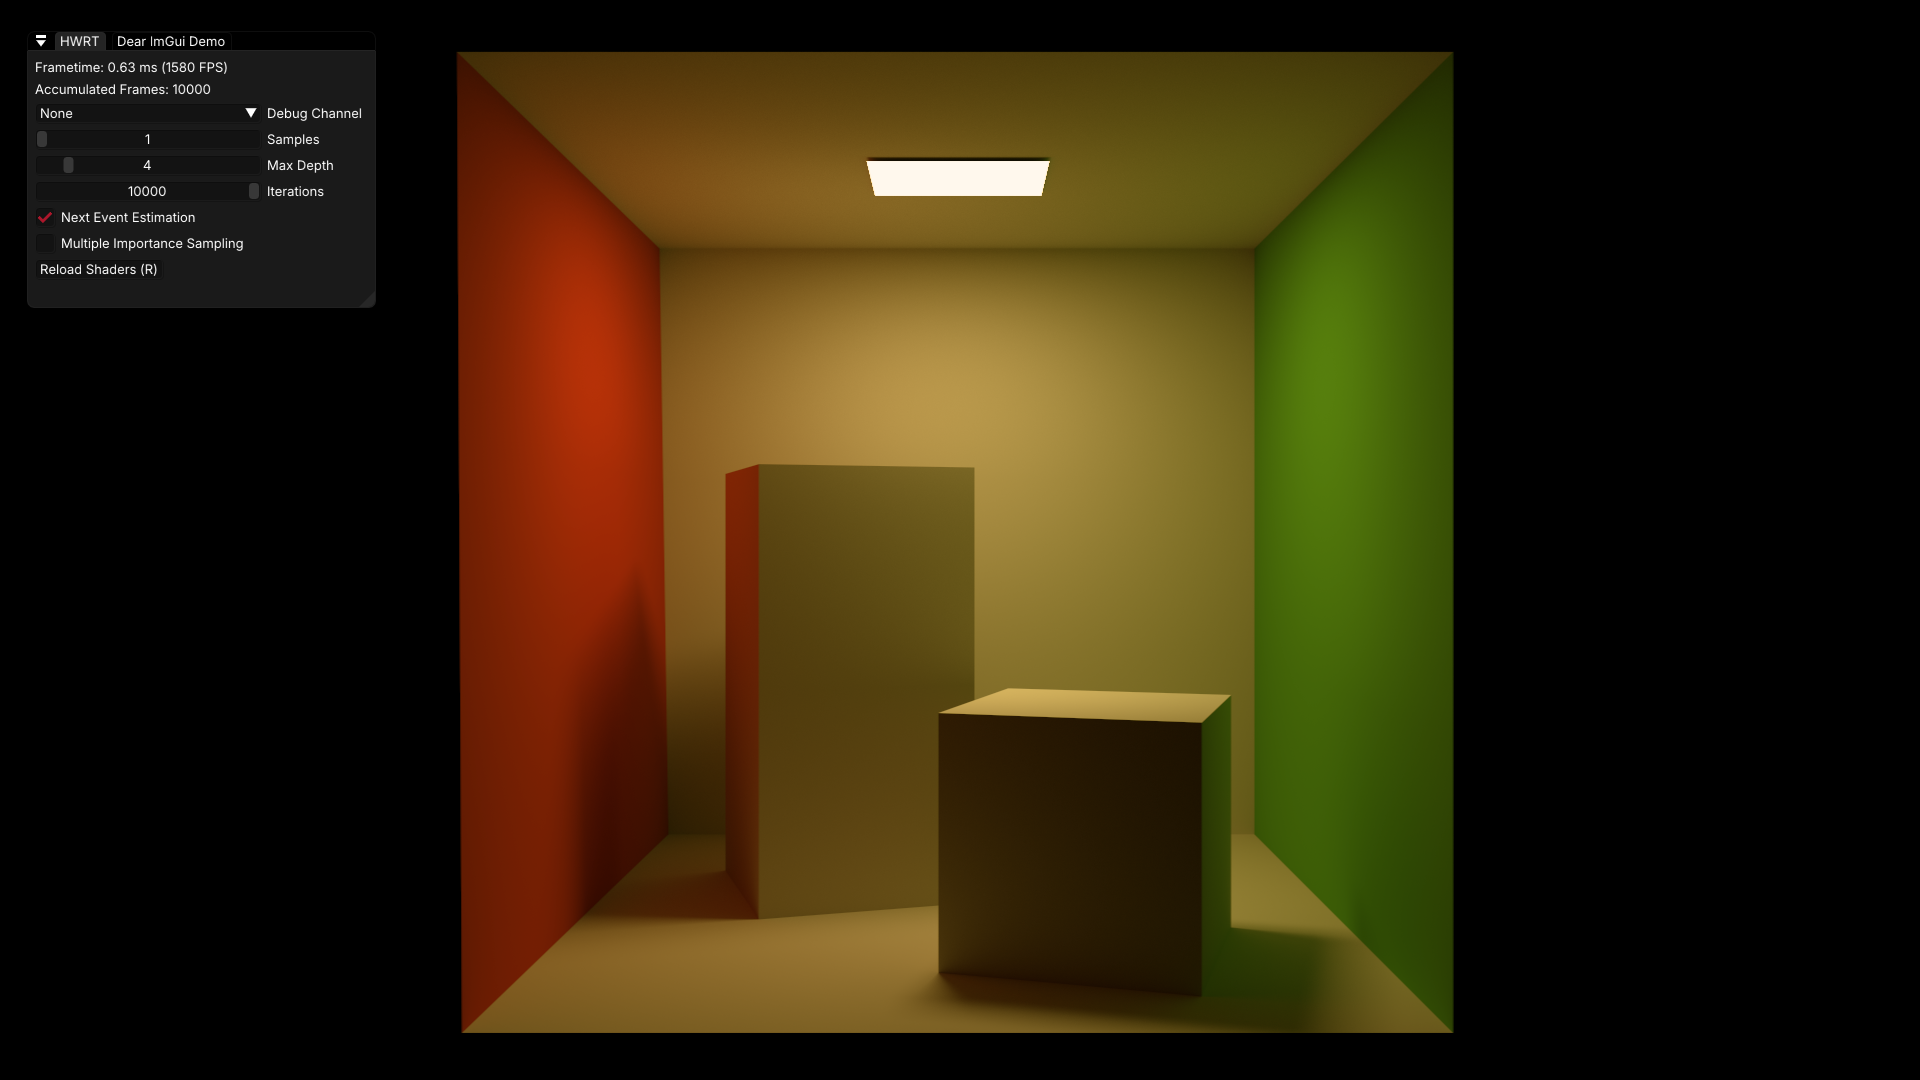
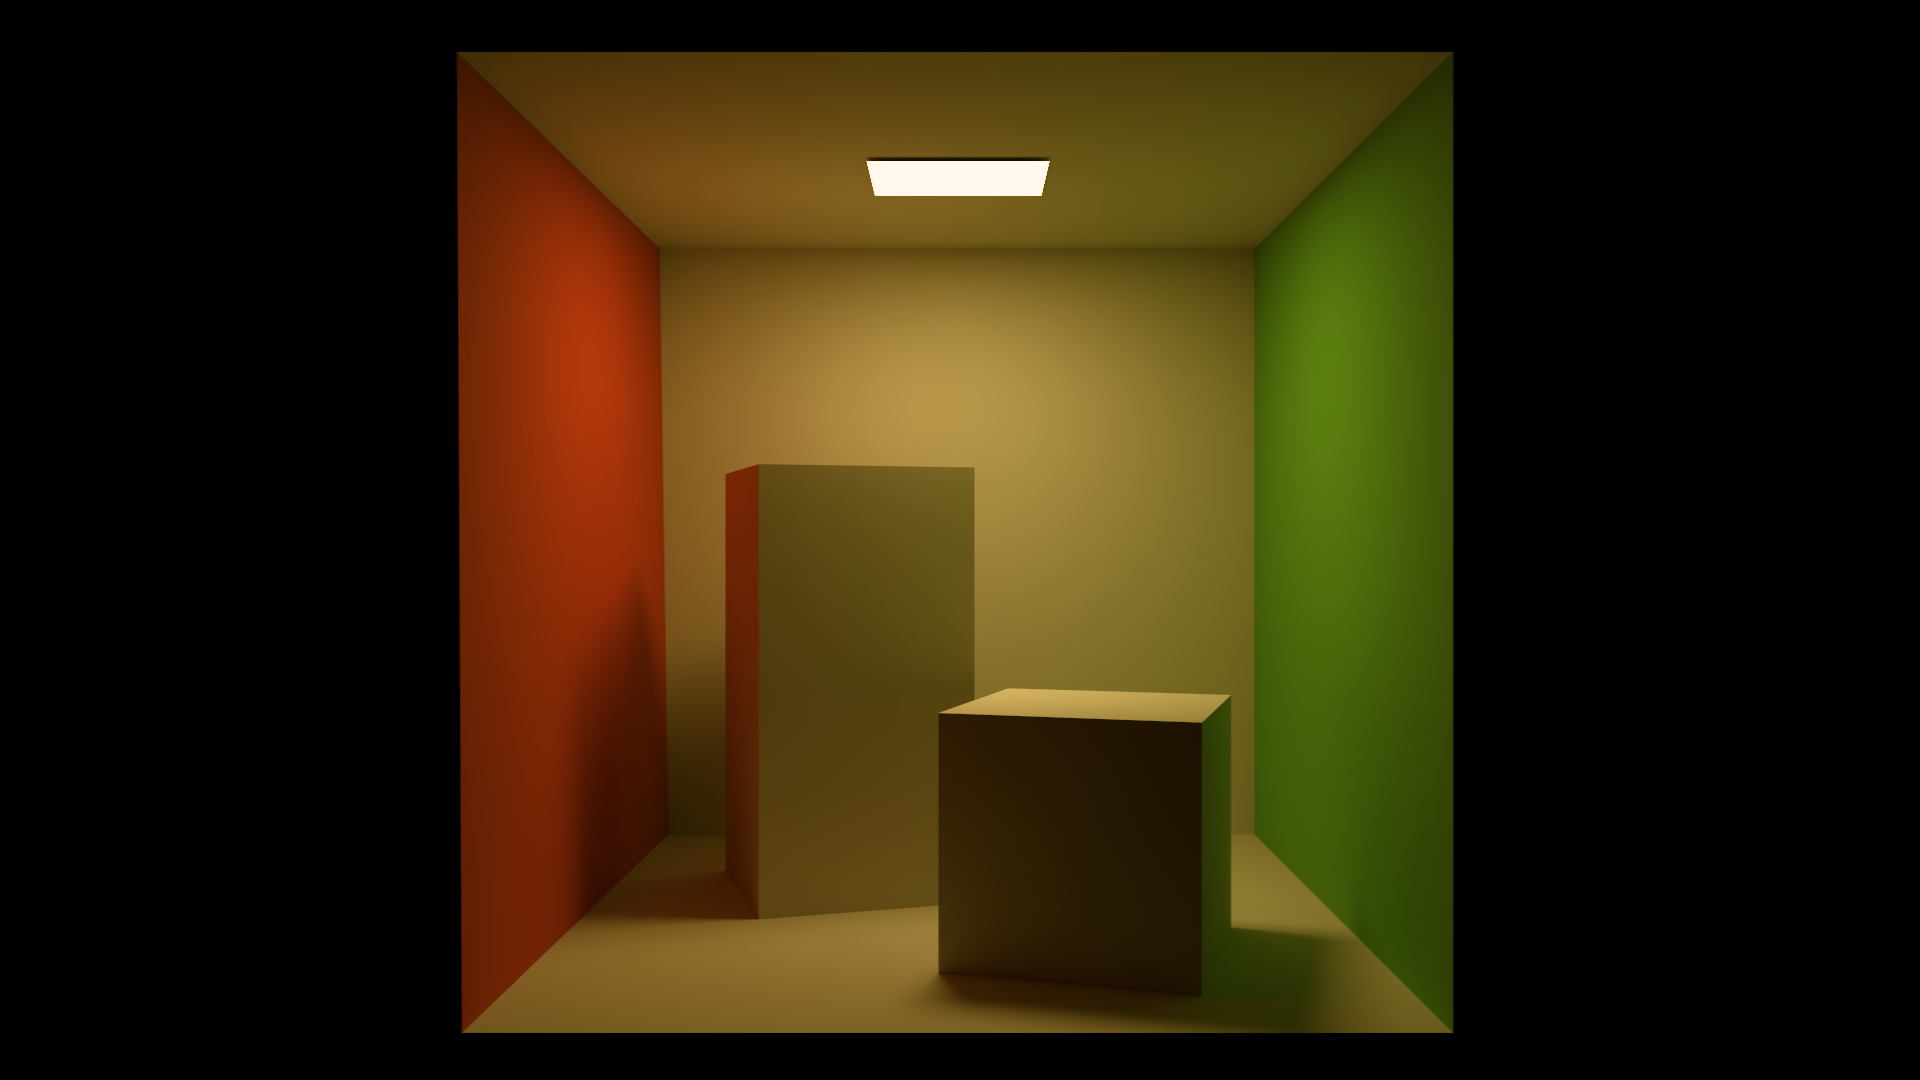
Added PBR BRDF model, fixed many bugs

Changed region(s): [[0.0, 0.0306, 0.2188, 0.3056]]

diff --git a/src/shaders/slang/common.h b/src/shaders/slang/common.h
@@ -14,7 +14,7 @@
 #endif
 
 #define PI 3.14159
-#define EPSILON 0.001
+#define EPSILON 0.00001
 #define T_MIN 0.0
 #define T_MAX 10000.0
 
@@ -24,6 +24,8 @@ struct Payload {
     float3 emission;
     float depth;
     float light_area;
+    float metallic;
+    float roughness;
 };
 
 struct Vertex {